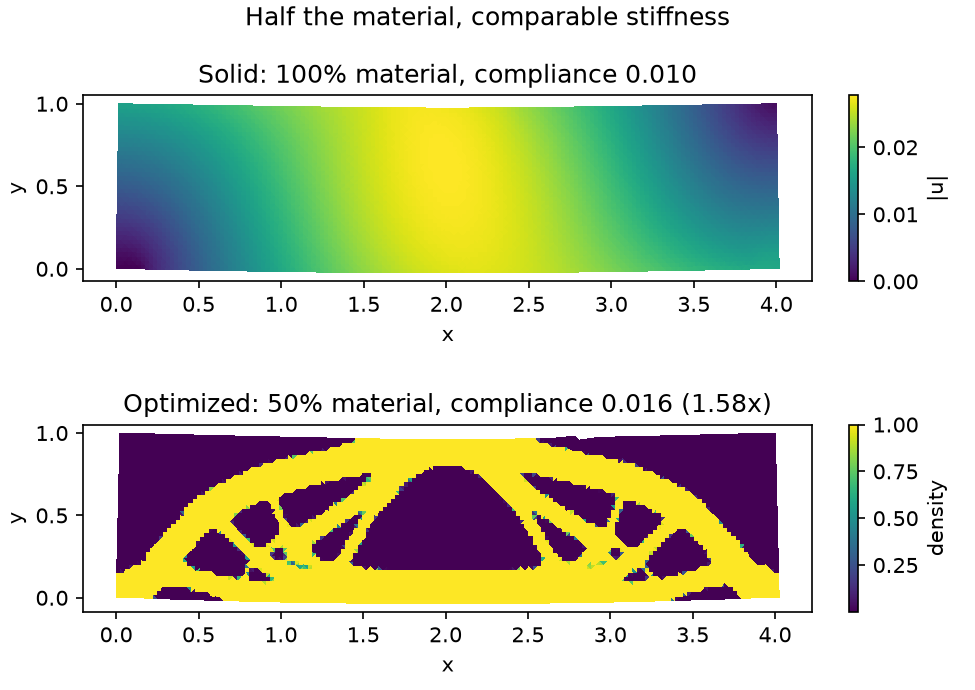
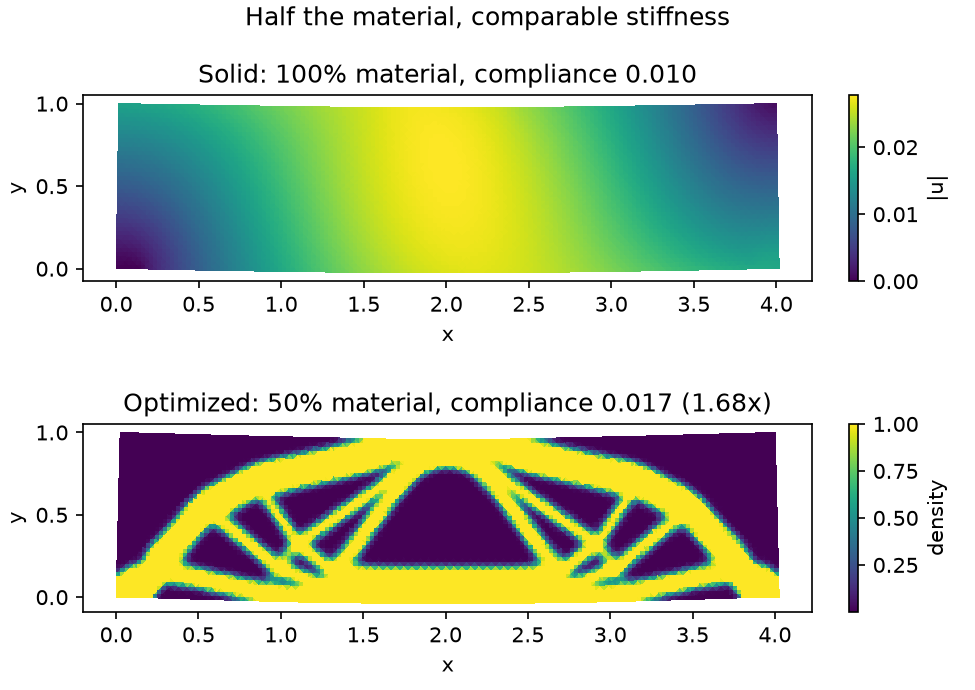
OC update weighted by element volume; Sigmund's sensitivity filter (#140)
* OC update weighted by element volume; Sigmund's sensitivity filter

The optimality-criteria condition balances the sensitivity against the
volume an element buys, dV/drho_e = v_e, so the update is
rho * sqrt(s / (m v_e)) with v_e relative to the mean volume. On a
uniform mesh nothing changes; on a graded one the step no longer favours
large elements.

The filter applied to the sensitivity is now Sigmund's,
s_i = sum_j w_ij rho_j s_j / (rho_i sum_j w_ij), through
`filter_sensitivity`; `calculate_smoothing_matrix` still returns the
row-normalized cone weights. The MBB demo keeps its arch with a grey
transition band about a filter radius wide, at 1.68x the solid
compliance instead of 1.58x.

* Regenerate the topology README figure for the Sigmund filter

diff --git a/fem/analysis/design.py b/fem/analysis/design.py
@@ -40,10 +40,10 @@ logger = logging.getLogger(__name__)
 def calculate_smoothing_matrix(mesh: Mesh, r: float) -> SparseMatrix:
     '''Row-normalized cone weights over the element centers within radius `r`.
 
-    The SIMP sensitivity filter: an element's smoothed sensitivity is a weighted
-    mean of the sensitivities within `r` of it, under the weight `r - distance`
-    falling linearly to zero at the radius. Filtering keeps the optimizer off
-    checkerboard designs, and `r` sets the design's feature size.
+    The weights of the SIMP sensitivity filter: `w_ij = r - |x_i - x_j|`, falling
+    linearly to zero at the radius, each row normalized to sum to 1. `filter_sensitivity`
+    applies them; on their own, `W @ s` is the plain weighted mean of `s`. Filtering
+    keeps the optimizer off checkerboard designs, and `r` sets the design's feature size.
 
     Sparse, off a KD-tree neighbour query, so the filter costs O(n_elements) when `r`
     tracks the element size. Rows sum to 1, except at `r = 0`, where every weight is
@@ -71,6 +71,26 @@ def calculate_smoothing_matrix(mesh: Mesh, r: float) -> SparseMatrix:
     )
 
 
+RHO_MIN = 1e-6    # the density floor: keeps the diluted stiffness nonsingular
+
+
+def filter_sensitivity(weights: SparseMatrix, rho: ElementValues,
+                       sensitivity: ElementValues) -> ElementValues:
+    '''Sigmund's sensitivity filter over row-normalized cone `weights`:
+
+        s_i = sum_j w_ij rho_j s_j / (rho_i sum_j w_ij).
+
+    The density weighting makes the filtered sensitivity the derivative of a smoothed
+    objective, so a void element next to solid ones is not pulled back by their
+    sensitivity at full strength. With `rho` uniform it is the plain weighted mean
+    `weights @ sensitivity`. `rho_i` is floored at `RHO_MIN`, the same floor the OC
+    update clips to.
+    '''
+    rho = np.asarray(rho, dtype=float)
+    smoothed = weights @ (rho * np.asarray(sensitivity, dtype=float))
+    return smoothed / np.maximum(rho, RHO_MIN)
+
+
 def optimality_criteria_update(
     rho: ElementValues,
     sensitivity: ElementValues,
@@ -83,10 +103,16 @@ def optimality_criteria_update(
     '''One OC density step: bisect a Lagrange multiplier to meet the volume target.
 
     `sensitivity` is the objective's negative gradient with respect to density (positive
-    where adding material helps), which the OC heuristic `rho * sqrt(sensitivity / m)`
-    needs. Each candidate is capped by the `move` limit and clipped to `[1e-6, 1]`, and
-    the multiplier `m` is bisected until the volume-weighted mean density meets
-    `volume_frac`.
+    where adding material helps). The optimality condition balances it against the
+    volume constraint's gradient, `dV/drho_e = v_e`, so the OC heuristic is
+
+        rho_e * sqrt(sensitivity_e / (m * v_e)),
+
+    with `v_e` the element volume normalized by the mean volume (which keeps the
+    multiplier `m` at the same magnitude on any mesh). On a uniform mesh `v_e = 1` and
+    the volumes drop out; on a graded one they stop the update favouring large elements.
+    Each candidate is capped by the `move` limit and clipped to `[RHO_MIN, 1]`, and `m`
+    is bisected until the volume-weighted mean density meets `volume_frac`.
     '''
     if np.any(sensitivity < 0.0):
         raise ValueError(
@@ -96,13 +122,15 @@ def optimality_criteria_update(
             'either way and is not compatible with this update; minimize a compliance '
             'or a squared quantity instead, or use a general gradient optimizer.'
         )
+    volumes = np.asarray(volumes, dtype=float)
+    relative_volumes = volumes / volumes.mean()
     lo, hi = 0.0, 1e15
     rho_new = rho
     for _ in range(max_iters):
         m = 0.5 * (lo + hi)
-        rho_new = rho * np.sqrt(sensitivity / m)
+        rho_new = rho * np.sqrt(sensitivity / (m * relative_volumes))
         rho_new = np.clip(rho_new, rho - move, rho + move)
-        rho_new = np.clip(rho_new, 1e-6, 1.0)
+        rho_new = np.clip(rho_new, RHO_MIN, 1.0)
         if float((volumes * rho_new).sum() / volumes.sum()) < volume_frac:
             hi = m
         else:
@@ -140,8 +168,9 @@ class SIMPModel:
     set of solid element matrices; `parameterization(rho)` is the `DensityParameterization` that
     differentiates it.
 
-    `sensitivity_filter` is the SIMP cone filter (`calculate_smoothing_matrix`), applied
-    to the raw sensitivity by the optimizer.
+    `sensitivity_filter` is the cone weight matrix of the SIMP sensitivity filter
+    (`calculate_smoothing_matrix`), which the optimizer applies to the raw sensitivity
+    through `filter_sensitivity`.
     '''
     template: LinearProblem[ElasticSolution]
     penalty: float = 3.0
@@ -282,7 +311,7 @@ class DesignOptimizer:
         # OC wants the ascent sensitivity: positive where adding material lowers J.
         sensitivity = -gradient
         if self.model.sensitivity_filter is not None:
-            sensitivity = self.model.sensitivity_filter @ sensitivity
+            sensitivity = filter_sensitivity(self.model.sensitivity_filter, self.rho, sensitivity)
 
         self.rho = optimality_criteria_update(
             self.rho, sensitivity, self.model.volumes, self.volume_frac, self.move,

diff --git a/tests/test_design.py b/tests/test_design.py
@@ -2,12 +2,13 @@
 update, and the optimizer over them."""
 import numpy as np
 import pytest
+from scipy.sparse import csr_array
 
 from fem.boundary import Dirichlet, Neumann
 from fem.conditions import Conditions
 from fem.analysis.design import (
     DesignOptimizer, SIMPModel, TargetCompliance, calculate_smoothing_matrix,
-    optimality_criteria_update,
+    filter_sensitivity, optimality_criteria_update,
 )
 from fem.physics.equations import LinearElastic, Poisson
 from fem.physics.forms import LinearElasticForm, PrecomputedForm
@@ -150,7 +151,65 @@ def test_smoothing_matrix_stays_sparse_under_refinement(make_unit_square):
     assert fine.nnz / fine.shape[0] < 1.5 * coarse.nnz / coarse.shape[0]
 
 
+def test_filter_on_a_uniform_density_is_the_plain_weighted_mean(make_unit_square):
+    """Sigmund's filter weights each neighbour's sensitivity by its density and divides by
+    the element's own; with rho uniform the two cancel and the plain cone mean is left."""
+    mesh = make_unit_square(12)
+    weights = calculate_smoothing_matrix(mesh, r=0.15)
+    rho = np.full(len(mesh.elements), 0.5)
+    sensitivity = np.linspace(1.0, 2.0, len(mesh.elements))
+    np.testing.assert_allclose(filter_sensitivity(weights, rho, sensitivity), weights @ sensitivity)
+
+
+def test_filter_matches_the_hand_computed_sigmund_value():
+    """s_i = sum_j w_ij rho_j s_j / (rho_i sum_j w_ij), on three elements written out."""
+    weights = np.array([[0.5, 0.25, 0.25],
+                        [0.25, 0.5, 0.25],
+                        [0.25, 0.25, 0.5]])
+    rho = np.array([1.0, 0.5, 0.2])
+    sensitivity = np.array([2.0, 4.0, 8.0])
+    expected = (weights @ (rho * sensitivity)) / rho
+    np.testing.assert_allclose(
+        filter_sensitivity(csr_array(weights), rho, sensitivity), expected)
+    # The first entry by hand: (0.5*1*2 + 0.25*0.5*4 + 0.25*0.2*8) / 1 = 1.9.
+    assert np.isclose(expected[0], 1.9)
+
+
+def test_filter_floors_a_void_density():
+    """A density at the OC floor divides by the floor, not by zero."""
+    weights = csr_array(np.eye(2))
+    rho = np.array([0.0, 1.0])
+    filtered = filter_sensitivity(weights, rho, np.array([1.0, 1.0]))
+    assert np.all(np.isfinite(filtered)) and filtered[1] == 1.0
+
+
 # -- the OC update ---------------------------------------------------------------
+
+
+def test_optimality_criteria_update_moves_a_larger_element_less():
+    """The condition balances the sensitivity against the volume it buys, dV/drho_e = v_e,
+    so at equal sensitivity the larger element (more volume per unit density) grows less.
+    With equal volumes the volumes drop out and both elements move alike."""
+    rho = np.array([0.5, 0.5])
+    sensitivity = np.array([1.0, 1.0])
+    unequal = optimality_criteria_update(rho, sensitivity, np.array([1.0, 4.0]),
+                                         volume_frac=0.6, move=0.5)
+    assert unequal[0] > unequal[1]
+    equal = optimality_criteria_update(rho, sensitivity, np.array([2.0, 2.0]),
+                                       volume_frac=0.6, move=0.5)
+    np.testing.assert_allclose(equal, [0.6, 0.6], atol=1e-6)
+
+
+def test_optimality_criteria_update_is_unchanged_by_a_uniform_volume_scale():
+    """Volumes enter relative to their mean, so scaling every element by the same factor
+    leaves the step exactly alone."""
+    rho = np.linspace(0.2, 0.8, 8)
+    sensitivity = np.linspace(1.0, 3.0, 8)
+    small = optimality_criteria_update(rho, sensitivity, np.ones(8), volume_frac=0.5)
+    large = optimality_criteria_update(rho, sensitivity, np.full(8, 7.0), volume_frac=0.5)
+    np.testing.assert_allclose(small, large)
+
+
 
 
 def test_optimality_criteria_update_rejects_a_signed_sensitivity():

diff --git a/fem/__init__.py b/fem/__init__.py
@@ -124,6 +124,7 @@ from fem.analysis.design import (
     DesignHistory,
     TargetCompliance,
     calculate_smoothing_matrix,
+    filter_sensitivity,
     optimality_criteria_update,
 )
 from fem.analysis.adaptivity import AdaptiveRefinement
@@ -258,6 +259,7 @@ __all__ = [
     "DesignHistory",
     "TargetCompliance",
     "calculate_smoothing_matrix",
+    "filter_sensitivity",
     "optimality_criteria_update",
     "AdaptiveRefinement",
     "ErrorEstimator",

diff --git a/README.md b/README.md
@@ -176,7 +176,7 @@ Isotropic Material with Penalization) method finds the stiffest structure using 
 the material, penalizing intermediate densities so the design resolves toward solid or
 void. It finds the classic arch, a compression arch over a tension tie braced by a
 diagonal web. Compliance is the work the load does, so it measures deflection
-directly, and the optimized truss is only about 1.6x as compliant as the fully solid
+directly, and the optimized truss is only about 1.7x as compliant as the fully solid
 block on half the material. What it removed was near the neutral axis, where the
 material was barely resisting the bending.
 
